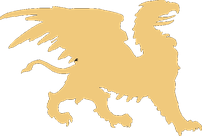
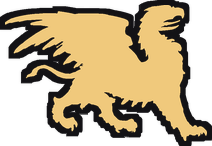
Véhicules : un contour à l'encre, la même surface pour tous, et le retour dans la barre du bas

diff --git a/_proto/e-app.js b/_proto/e-app.js
@@ -113,11 +113,11 @@ window.CG_RES = function(cle, h){
 (function(){
   function v(nom, w, h){ return { img: '/images/vehicules/' + nom + '.webp', r: w / h }; }
   var VEHICULES = {
-    starwars: v('faucon', 191, 140), dc: v('batmobile', 240, 83), avatar: v('appa', 240, 133),
-    startrek: v('enterprise', 192, 90), walkingdead: v('campingcar', 240, 109), dragonage: v('griffon', 202, 136),
-    jurassicworld: v('jeep', 240, 117), witcher: v('ablette', 164, 136), residentevil: v('helicoptere', 240, 97),
-    bladerunner: v('spinner', 240, 70), monsterverse: v('porteavions', 240, 55),
-    marvel: v('helicarrier', 240, 118), assassinscreed: v('aigle', 113, 136), dcanimation: v('batmobile', 240, 83)
+    starwars: v('faucon', 195, 146), dc: v('batmobile', 250, 93), avatar: v('appa', 250, 143),
+    startrek: v('enterprise', 202, 100), walkingdead: v('campingcar', 250, 119), dragonage: v('griffon', 212, 146),
+    jurassicworld: v('jeep', 250, 127), witcher: v('ablette', 174, 146), residentevil: v('helicoptere', 250, 107),
+    bladerunner: v('spinner', 250, 80), monsterverse: v('porteavions', 250, 65),
+    marvel: v('helicarrier', 250, 128), assassinscreed: v('aigle', 123, 146), dcanimation: v('batmobile', 250, 93)
   };
   // les noms des protos et du Dossier
   VEHICULES['star-wars'] = VEHICULES['dossier-star-wars'] = VEHICULES.starwars;
@@ -126,22 +126,25 @@ window.CG_RES = function(cle, h){
     .replace(/\.html$/, '').replace(/^en?-/, '');
   var V = VEHICULES[route];
   if (!V) return;
-  // le véhicule tient dans sa boîte : un porte-avions est plafonné en largeur
-  function taille(lmax, h){
-    var w = Math.round(h * V.r);
-    if (w > lmax) { w = lmax; h = Math.round(lmax / V.r); }
-    return 'width:' + w + 'px;height:' + h + 'px';
+  /* Tous à la même surface plutôt que dans la même boîte : dans une boîte, un
+     porte-avions tombait à 15 px de haut et l'aigle à 28 de large. Plafonds
+     en largeur et en hauteur pour les formes extrêmes. */
+  function taille(aire, lmax, hmax){
+    var h = Math.sqrt(aire / V.r), w = h * V.r;
+    if (w > lmax) { w = lmax; h = w / V.r; }
+    if (h > hmax) { h = hmax; w = h * V.r; }
+    return 'width:' + Math.round(w) + 'px;height:' + Math.round(h) + 'px';
   }
   var image = 'url("' + V.img + '") center/contain no-repeat';
   var st = document.createElement('style');
   st.textContent =
-    '.lm-train{' + taille(64, 34) + '}.hud-train{' + taille(50, 26) + '}' +
+    '.lm-train{' + taille(1900, 86, 44) + '}.hud-train{' + taille(1000, 64, 30) + '}' +
     '.veh{display:block;width:100%;height:100%;background:' + image + '}' +
-    '.rows>.ici::before{' + taille(60, 32) + ';border:0;border-radius:0;background:' + image + '}';
+    '.rows>.ici::before{' + taille(1700, 80, 42) + ';border:0;border-radius:0;background:' + image + '}';
   document.head.appendChild(st);
   function remplace(){
     [].forEach.call(document.querySelectorAll('.lm-train,.hud-train'), function(t){
-      if (!t.querySelector('.veh')) t.innerHTML = '<i class="veh" aria-hidden="true"></i>';
+      if (!t.querySelector('.veh')) t.innerHTML = '<span class="veh" aria-hidden="true"></span>';
     });
   }
   remplace();

diff --git a/app.js b/app.js
@@ -113,11 +113,11 @@ window.CG_RES = function(cle, h){
 (function(){
   function v(nom, w, h){ return { img: '/images/vehicules/' + nom + '.webp', r: w / h }; }
   var VEHICULES = {
-    starwars: v('faucon', 191, 140), dc: v('batmobile', 240, 83), avatar: v('appa', 240, 133),
-    startrek: v('enterprise', 192, 90), walkingdead: v('campingcar', 240, 109), dragonage: v('griffon', 202, 136),
-    jurassicworld: v('jeep', 240, 117), witcher: v('ablette', 164, 136), residentevil: v('helicoptere', 240, 97),
-    bladerunner: v('spinner', 240, 70), monsterverse: v('porteavions', 240, 55),
-    marvel: v('helicarrier', 240, 118), assassinscreed: v('aigle', 113, 136), dcanimation: v('batmobile', 240, 83)
+    starwars: v('faucon', 195, 146), dc: v('batmobile', 250, 93), avatar: v('appa', 250, 143),
+    startrek: v('enterprise', 202, 100), walkingdead: v('campingcar', 250, 119), dragonage: v('griffon', 212, 146),
+    jurassicworld: v('jeep', 250, 127), witcher: v('ablette', 174, 146), residentevil: v('helicoptere', 250, 107),
+    bladerunner: v('spinner', 250, 80), monsterverse: v('porteavions', 250, 65),
+    marvel: v('helicarrier', 250, 128), assassinscreed: v('aigle', 123, 146), dcanimation: v('batmobile', 250, 93)
   };
   // les noms des protos et du Dossier
   VEHICULES['star-wars'] = VEHICULES['dossier-star-wars'] = VEHICULES.starwars;
@@ -126,22 +126,25 @@ window.CG_RES = function(cle, h){
     .replace(/\.html$/, '').replace(/^en?-/, '');
   var V = VEHICULES[route];
   if (!V) return;
-  // le véhicule tient dans sa boîte : un porte-avions est plafonné en largeur
-  function taille(lmax, h){
-    var w = Math.round(h * V.r);
-    if (w > lmax) { w = lmax; h = Math.round(lmax / V.r); }
-    return 'width:' + w + 'px;height:' + h + 'px';
+  /* Tous à la même surface plutôt que dans la même boîte : dans une boîte, un
+     porte-avions tombait à 15 px de haut et l'aigle à 28 de large. Plafonds
+     en largeur et en hauteur pour les formes extrêmes. */
+  function taille(aire, lmax, hmax){
+    var h = Math.sqrt(aire / V.r), w = h * V.r;
+    if (w > lmax) { w = lmax; h = w / V.r; }
+    if (h > hmax) { h = hmax; w = h * V.r; }
+    return 'width:' + Math.round(w) + 'px;height:' + Math.round(h) + 'px';
   }
   var image = 'url("' + V.img + '") center/contain no-repeat';
   var st = document.createElement('style');
   st.textContent =
-    '.lm-train{' + taille(64, 34) + '}.hud-train{' + taille(50, 26) + '}' +
+    '.lm-train{' + taille(1900, 86, 44) + '}.hud-train{' + taille(1000, 64, 30) + '}' +
     '.veh{display:block;width:100%;height:100%;background:' + image + '}' +
-    '.rows>.ici::before{' + taille(60, 32) + ';border:0;border-radius:0;background:' + image + '}';
+    '.rows>.ici::before{' + taille(1700, 80, 42) + ';border:0;border-radius:0;background:' + image + '}';
   document.head.appendChild(st);
   function remplace(){
     [].forEach.call(document.querySelectorAll('.lm-train,.hud-train'), function(t){
-      if (!t.querySelector('.veh')) t.innerHTML = '<i class="veh" aria-hidden="true"></i>';
+      if (!t.querySelector('.veh')) t.innerHTML = '<span class="veh" aria-hidden="true"></span>';
     });
   }
   remplace();

diff --git a/CLAUDE.md b/CLAUDE.md
@@ -3986,7 +3986,14 @@ bloc « UN VÉHICULE PAR UNIVERS » en tête de `e-app.js` (table `VEHICULES`, p
 route). **Ce sont les silhouettes fournies par Niko**, un dessin de mémoire ne
 ressemblant pas : `images/vehicules/*.webp`, tournées nez vers la droite, la coque
 à l'or (#f0c97c), les détails **comblés à l'encre** (#131215) — Niko ne veut pas voir
-à travers —, 240 × 136 px au plus. Faucon (Star Wars et Dossier), Batmobile (DC),
+à travers —, et **un contour à l'encre de 5 px cuit dans l'image** (≈ 1,5 px à l'écran :
+sans lui le véhicule disparaissait sur le terminus blanc ; un `drop-shadow` CSS est
+interdit par les aplats), 250 × 146 px au plus. **Tous à la même surface**
+(`taille(aire, lmax, hmax)`), pas dans la même boîte : un porte-avions y tombait à
+15 px de haut. **Le véhicule est un `<span class="veh">`, jamais un `<i>`** : la règle
+`.hud .bar i` des pages (la jauge, `scaleX(0)`) l'écrasait, et la barre du bas n'avait
+plus de véhicule, sans un mot. Le script de conversion n'est pas versionné ; il
+détecte le fond, comble les trous, met la coque en or, tourne nez à droite. Faucon (Star Wars et Dossier), Batmobile (DC),
 Appa, Enterprise, camping-car (TWD), griffon (Dragon Age), Jeep (Jurassic), Ablette
 (The Witcher), hélicoptère (Resident Evil), Spinner, porte-avions (Monsterverse),
 héliporteur du S.H.I.E.L.D. (Marvel), aigle (Assassin's Creed) ; DC Animation reprend
